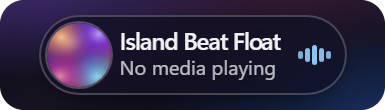
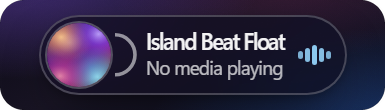
preview: 3.1.4 compact mockup with arc spin-toggle and shifted text
- preview.html: add the 3.1.4 arc spin-toggle (20 DIP diameter ring, 1.8 DIP
  stroke at 0.55 opacity, right half clipped at the vertical diameter) in the
  x 38..50 DIP column; move the text block from 42.5 to 55.5 DIP and shrink it
  to 68 DIP (text condensed to keep the full idle placeholder visible); keep
  the cover, equalizer and pill untouched.
- screenshots/compact.png (385x110), screenshots/hero.png (1600x875) and
  preview/compare/compact.png re-rendered; the compare now labels the render
  as the 3.1.4 layout so the arc column and text shift read as intended
  differences against the real 3.1.3 capture.
- build.py / compare.py accept optional view names so one artboard can be
  re-rendered on its own; preview/README.md documents the 3.1.4 geometry,
  arc draw values and measured gaps.
- expanded.png and compare/expanded.png are untouched.

Changed region(s): [[0.2805, 0.2727, 0.7481, 0.7364]]

diff --git a/preview/preview.html b/preview/preview.html
@@ -10,11 +10,14 @@
   is 2x the real UI and the PNGs can be compared 1:1 with the real 2x captures
   in preview/reference/.
 
-  Geometry source: island-beat-float.wh.cpp 3.1.3 (UpdateRuntimeLayout,
-  CalculatePopupFinalLayout, UpdatePopupXamlVisuals) plus the deployed 3.1.3
+  Geometry source: island-beat-float.wh.cpp 3.1.4 (UpdateRuntimeLayout,
+  CalculatePopupFinalLayout, UpdatePopupXamlVisuals) plus the deployed 3.1.4
   compact screen-space numbers: cover 4..36 DIP (32 DIP circle centred on the
-  left end-cap centre 20,20, 1 DIP rim), text block 42.5..123.5 DIP (width 81),
-  equalizer bars right-aligned to 147 DIP, pill 154 x 40 DIP.
+  left end-cap centre 20,20, 1 DIP rim), NEW 3.1.4 arc spin-toggle column
+  38..50 DIP (2 DIP after the cover, 12 DIP wide, 180 degree semicircular ring
+  1.8 DIP stroke, vertically centred), text block 55.5..123.5 DIP (width 68,
+  was 42.5..123.5 in 3.1.3), equalizer bars right-aligned to 147 DIP, pill 154
+  x 40 DIP.
 
   Views (query string):
     ?view=compact   192.5 x 55 CSS  -> 385 x 110 px PNG  (pill 308 x 80 px)
@@ -116,10 +119,12 @@
   }
 
   /* -------------------------------------------------- compact island pill */
-  /* 3.1.3 deployed screen-space metrics (DIP):
+  /* 3.1.4 deployed screen-space metrics (DIP):
        pill 154 x 40, radius 20, 1 DIP light rim, flat translucent dark fill
        cover circle 32, box left 4 / top 4, centre (20,20), 1 DIP rim
-       title/artist block x 42.5, width 81; title line box 14.5, artist 12
+       arc spin-toggle column x 38..50 (2 DIP after the cover), 180 degree
+       semicircular ring 1.8 DIP stroke at 0.55 opacity, vertically centred
+       title/artist block x 55.5, width 68; title line box 14.5, artist 12
        equalizer bars 5 x 2.4 wide / 0.75 gaps, right-aligned to x 147    */
   .pill {
     position: absolute;
@@ -148,27 +153,60 @@
   }
   .cover svg { display: block; width: 100%; height: 100%; }
 
+  /* 3.1.4 arc spin-toggle: a thin right-half ring, i.e. a 20 DIP diameter
+     circle (r = 10) whose left half is clipped away at the vertical diameter.
+     The real UI builds it from a stroked Ellipse plus a RectangleGeometry clip
+     x 0..12, y -0.9..20.9; here the SVG does the same: the path is the
+     180 degree right half (M ... A ...), the box x 0 = vertical diameter does
+     the clipping (the SVG viewport clips the round end caps' left halves), and
+     the 1.8 DIP round-capped stroke gives the ring its rounded ends.
+     Layout: 12 x 20 DIP column at x 38, y 10 (vertically centred on the pill);
+     the caps make the visible ink 10.9 x 21.8 DIP (y 9.1..30.9). */
+  .arc {
+    position: absolute;
+    left: 38px;
+    top: 9.1px;
+    width: 12px;
+    height: 21.8px;
+    overflow: hidden;          /* clips the caps at the vertical diameter */
+  }
+  .arc svg { display: block; width: 100%; height: 100%; }
+  .arc path {
+    fill: none;
+    stroke: currentColor;      /* themed light foreground, like the real popup */
+    stroke-width: 1.8px;
+    stroke-linecap: round;
+    opacity: 0.55;
+  }
+
   .meta {
     position: absolute;
-    left: 40.5px;            /* ink left 41.5 DIP, measured from real 3.1.3 */
+    left: 53.5px;            /* 3.1.4 text block 55.5 DIP: 42.5 + 13 */
     top: 5.5px;              /* ink block centre 20.25 DIP like the real capture */
-    width: 81px;
+    width: 68px;             /* 3.1.4: widened cover->arc->text column, right edge kept */
     display: flex;
     flex-direction: column;
     justify-content: flex-start;
+    /* The 3.1.4 text block is 13 DIP narrower than 3.1.3. Condense the two
+       placeholder lines a little (and tighten their tracking below) so the
+       full idle title/artist stay visible; the real UI ellipsizes at this
+       width, but the showcase has always shown the complete placeholder. */
+    transform: scaleX(0.93);
+    transform-origin: left center;
   }
   .pill .title {
     font-family: var(--font-ui);
     font-weight: 600;
     font-size: 12px;
     line-height: 14.5px;
-    letter-spacing: -0.045em;   /* keeps the full idle title inside 81 DIP */
+    letter-spacing: -0.075em;   /* keeps the full idle title inside 68 DIP */
     color: rgba(255, 255, 255, 0.95);
     white-space: nowrap;
   }
   .pill .artist {
     font-size: 10px;
     line-height: 12px;
+    letter-spacing: -0.03em;    /* keeps "No media playing" inside 68 DIP */
     color: rgba(255, 255, 255, 0.72);
     white-space: nowrap;
   }
@@ -373,6 +411,9 @@
     <div class="grain" aria-hidden="true"></div>
     <div class="pill">
       <div class="cover" data-art aria-hidden="true"></div>
+      <svg class="arc" viewBox="0 0 12 21.8" aria-label="Spin toggle" role="img">
+        <path d="M 0 0.9 A 10 10 0 0 1 0 20.9"/>
+      </svg>
       <div class="meta">
         <span class="title">Island Beat Float</span>
         <span class="artist">No media playing</span>
@@ -427,6 +468,9 @@
     </div>
     <div class="pill">
       <div class="cover" data-art aria-hidden="true"></div>
+      <svg class="arc" viewBox="0 0 12 21.8" aria-label="Spin toggle" role="img">
+        <path d="M 0 0.9 A 10 10 0 0 1 0 20.9"/>
+      </svg>
       <div class="meta">
         <span class="title">Island Beat Float</span>
         <span class="artist">No media playing</span>

diff --git a/preview/compare.py b/preview/compare.py
@@ -6,25 +6,32 @@ Both sides are at the same pixel scale (2x the real UI): a 308 x 80 px compact
 pill and a 648 x 1156 px expanded glass surface. The comparison images
 therefore need no rescaling, so layout differences are directly readable.
 
+The rendered compact mockup now shows the 3.1.4 layout (new arc spin-toggle
+next to the cover, text block shifted from 42.5 to 55.5 DIP). The real 3.1.3
+capture predates both changes, so the arc column and the text shift are the
+expected, intentional differences in the compact comparison; everything else
+(cover, equalizer, pill bounds, text style) should still line up.
+
 Inputs:
     preview/reference/real-compact-3.1.3.png     (335 x 110 real capture, 3.1.3)
     preview/reference/real-expanded-3.1.1.png    (1100 x 1000 real capture)
     screenshots/compact.png, screenshots/expanded.png
 
 Outputs:
-    preview/compare/compact.png    real | render | 50% overlay, 1:1 pixels
+    preview/compare/compact.png    3.1.3 real | 3.1.4 render | 50% overlay
     preview/compare/expanded.png   real | render | bottom-aligned overlay
 
 The compact overlay is aligned on the pill's top-left corner; the expanded
 overlay is aligned on the card's bottom edge (the real capture is cropped at
 the top, so the bottom is the only common anchor).
 
-Usage: python preview/compare.py
+Usage: python preview/compare.py [compact|expanded ...]
 """
 
 from __future__ import annotations
 
 import os
+import sys
 
 from PIL import Image, ImageDraw, ImageFont
 
@@ -38,7 +45,7 @@ BG = (12, 14, 20)
 FG = (235, 235, 240)
 DIM = (150, 155, 170)
 PAD = 16
-LABEL_H = 26
+LABEL_H = 44
 GAP = 20
 
 FONT_REG = r"C:\Windows\Fonts\segoeui.ttf"
@@ -70,6 +77,10 @@ def add_label(draw: ImageDraw.ImageDraw, x: int, y: int, text: str) -> None:
     draw.text((x, y), text, fill=FG, font=font(FONT_BOLD, 14))
 
 
+def add_note(draw: ImageDraw.ImageDraw, x: int, y: int, text: str) -> None:
+    draw.text((x, y), text, fill=DIM, font=font(FONT_REG, 11))
+
+
 def build_compact() -> None:
     real = Image.open(os.path.join(REF, "real-compact-3.1.3.png")).convert("RGB")
     ours = Image.open(os.path.join(SHOTS, "compact.png")).convert("RGB")
@@ -91,12 +102,26 @@ def build_compact() -> None:
     draw = ImageDraw.Draw(canvas)
 
     x = PAD
-    for img, text in (
-        (real, "real 3.1.3 capture (335 x 110 px)"),
-        (ours, "rendered mockup (385 x 110 px)"),
-        (overlay, "overlay, aligned on pill top-left"),
-    ):
+    panels = (
+        (
+            real,
+            "real 3.1.3 capture (335 x 110 px)",
+            "no arc, text block x 42.5 DIP",
+        ),
+        (
+            ours,
+            "rendered 3.1.4 mockup (385 x 110 px)",
+            "NEW 3.1.4 arc toggle, text block x 55.5 DIP",
+        ),
+        (
+            overlay,
+            "overlay, aligned on pill top-left",
+            "arc column + text shift are the intended differences",
+        ),
+    )
+    for img, text, note in panels:
         add_label(draw, x, PAD, text)
+        add_note(draw, x, PAD + 20, note)
         add_panel(canvas, x, PAD + LABEL_H, img)
         x += img.width + GAP
 
@@ -155,8 +180,15 @@ def build_expanded() -> None:
 
 def main() -> None:
     os.makedirs(OUT, exist_ok=True)
-    build_compact()
-    build_expanded()
+    wanted = set(sys.argv[1:])
+    known = {"compact", "expanded"}
+    unknown = wanted - known
+    if unknown:
+        sys.exit(f"unknown comparison(s): {', '.join(sorted(unknown))} (known: {', '.join(sorted(known))})")
+    if not wanted or "compact" in wanted:
+        build_compact()
+    if not wanted or "expanded" in wanted:
+        build_expanded()
 
 
 if __name__ == "__main__":

diff --git a/preview/build.py b/preview/build.py
@@ -10,7 +10,8 @@ are therefore 2x the real UI and line up 1:1 with the 2x captures in
 ``preview/reference/`` (see ``preview/compare.py``).
 
 Usage (from anywhere):
-    python preview/build.py
+    python preview/build.py                 # re-render every artboard
+    python preview/build.py compact hero    # re-render only the named artboards
 
 Requires Microsoft Edge and Pillow; everything else is in the repo.
 """
@@ -108,8 +109,15 @@ def main() -> None:
     os.makedirs(SHOTS, exist_ok=True)
     profile = os.path.join(tempfile.gettempdir(), "island-beat-float-preview-profile")
     work = tempfile.mkdtemp(prefix="island-beat-float-preview-")
+    wanted = set(sys.argv[1:])
+    known = {name for name, *_ in VIEWS}
+    unknown = wanted - known
+    if unknown:
+        sys.exit(f"unknown view(s): {', '.join(sorted(unknown))} (known: {', '.join(sorted(known))})")
     try:
         for name, css_w, css_h, radius, out_w in VIEWS:
+            if wanted and name not in wanted:
+                continue
             dump = os.path.join(work, name + "-raw.png")
             win_w = int(math.ceil(css_w)) + 2 * MARGIN
             win_h = int(math.ceil(css_h)) + 2 * MARGIN

diff --git a/preview/README.md b/preview/README.md
@@ -12,6 +12,11 @@ differences are the clean gradient backdrop instead of the desktop/wallpaper,
 the generated abstract artwork instead of a real cover, and the placeholder
 idle text instead of a real track.
 
+The compact artboard models the **3.1.4** layout: the new arc spin-toggle next
+to the cover and the text block shifted 13 DIP to the right. The newest real
+capture is still 3.1.3, so those two changes are the intended differences in
+`compare/compact.png`; the expanded artboard is unchanged.
+
 | Artboard | Query | Output |
 | --- | --- | --- |
 | Compact taskbar island | `preview.html?view=compact` | `../screenshots/compact.png` (385x110) |
@@ -21,9 +26,9 @@ idle text instead of a real track.
 Open `preview/preview.html` in a browser to see every artboard stacked (no
 query string = browsing mode).
 
-## Compact island (3.1.3)
+## Compact island (3.1.4)
 
-Deployed 3.1.3 screen-space values (pill 154 x 40 DIP), used verbatim
+Deployed 3.1.4 screen-space values (pill 154 x 40 DIP), used verbatim
 (`Main.Height = 40`, `Main.CompactWidth = 154`):
 
 | Element | DIP | 2x px in the image |
@@ -31,28 +36,65 @@ Deployed 3.1.3 screen-space values (pill 154 x 40 DIP), used verbatim
 | Pill | 154 x 40, radius 20, 1 DIP light rim, flat translucent dark fill | 308 x 80 |
 | Cover circle | x 4..36, y 4..36 (32 DIP, centre 20,20 = left cap centre) | 64 |
 | Cover rim | 1 DIP light ring outside the circle | 2 |
-| Title/artist block | x 40.5, width 81 (ink starts 41.5, like the capture) | 81..243 |
+| Arc spin-toggle | layout box x 38, y 10, 12 x 20 (2 DIP after the cover, vertically centred) | x 76, y 20 |
+| Text block | x 55.5..123.5, width 68 (was 42.5..123.5, width 81 in 3.1.3) | 111..247 |
 | Title | 12 DIP SemiBold, line box 14.5 | ink y 8..16.5 |
 | Artist | 10 DIP Regular, line box 12 | ink y 22.5..31.5 |
 | Equalizer | 5 bars 2.5 wide / 1.0 gaps (16.5 DIP) centred in the 18 DIP indicator at right inset 7 (bars 129.75..146.25) | 259.5..292.5 |
 | Pill end cap | right edge 154, bar inset 7 | 14 |
 
-Measured from the rendered PNG (pill top-left at 38.5/15 px):
+### Arc spin-toggle (new in 3.1.4)
 
-- cover artwork right edge 36.0 DIP -> title ink 42.0 DIP = **6.0 DIP gap**
-  (12 px); measured from the 1 DIP cover ring (37.0) it is 5.0 DIP (10 px)
-- title ink right edge 121.0 DIP -> bars left 130.0 DIP = **9.0 DIP gap**
-  (18 px); block-edge gap (121.5 -> 129.75) is 8.25 DIP
-- bars right edge 146.25 DIP -> pill right 154 DIP = **7.75 DIP gap** (15.5 px)
+The toggle is a thin **right-half ring**: a 20 DIP diameter circle (r = 10,
+like the real `Ellipse`) with its left half clipped away at the vertical
+diameter, i.e. a semicircular ")" bracket. The real UI draws a stroked ellipse
+and clips it with `RectangleGeometry(0, -0.9, 12, 21.8)`; the mockup does the
+same in SVG: the arc path covers only the 180 degree right half and the SVG
+viewport (`overflow: hidden`, box x 0 = vertical diameter) clips the round
+end caps' left halves.
 
-The equalizer bar count/width/pitch and the text block are matched to the real
-3.1.3 capture: every comparable anchor is within 1 px at 2x (see the fidelity
-table below).
+| Draw value | Value |
+| --- | --- |
+| Layout box (CSS/DIP) | `left: 38`, `top: 9.1`, `width: 12`, `height: 21.8` (the arc column is x 38..50, y 10..30) |
+| SVG | `viewBox="0 0 12 21.8"`, default clipping |
+| Path | `M 0 0.9 A 10 10 0 0 1 0 20.9` (start top, end bottom at the vertical diameter, r = 10, sweep 1 = bulge right) |
+| Stroke | 1.8 DIP, round caps, `fill: none`, round end discs = the real cap ellipses |
+| Colour | themed light foreground (`currentColor` = #FFFFFF) at `opacity: 0.55` |
+| Visible ink | 10.9 x 21.8 DIP at x 38.0..48.9, y 9.1..30.9 (centre 43.45, 20.0) |
+
+The 12 x 20 DIP layout slot is centred on the pill's centre line (y 10..30).
+The stroke/caps extend 0.9 DIP above and below that slot, so the element is
+21.8 DIP tall; the right side of the 12 DIP column keeps 1.1 DIP of space
+between the ring's outer edge (10.9) and the column edge (12).
+
+### Text block shift (3.1.4)
+
+The block moves right by 13 DIP: the new column is
+`4 (artInset) + 32 (cover) + 2 (gap) + 12 (arc) + 5.5 (textMarginX) = 55.5`
+DIP, so the text block is x 55.5..123.5 and the right side is untouched.
+
+Measured from the rendered PNG (pill top-left at 38.5/15 px, all gaps in DIP):
+
+- cover artwork right edge 36.0 -> arc ink left 38.0 = **2.0 DIP gap** (nominal
+  cover 36 -> arc column 38 = 2.0)
+- arc ink right edge 48.9 -> title ink left 54.25 = **5.35 DIP gap** (nominal
+  arc column 50 -> text block 55.5 = 5.5; the text ink starts ~1 DIP before the
+  block edge)
+- title ink right edge 123.75 (artist 121.75) -> bars left 129.75 = **6.0 DIP
+  gap** (close to the 3.1.4 block-edge gap of 123.5 -> 129.75 = 6.25)
+- bars right edge 146.25 -> pill right 154 = **7.75 DIP gap** (unchanged from
+  3.1.3)
+
+The equalizer bar count/width/pitch and the right side are untouched: every
+comparable anchor is within 1 px at 2x (see the fidelity table below).
 
 Two deliberate deviations from the real text rendering:
 
-- the idle title "Island Beat Float" is 12 DIP with -0.045em tracking so the
-  full title fits the real 81 DIP text block (the real UI would ellipsize it);
+- the 3.1.4 text block is 13 DIP narrower, so the two placeholder lines are
+  condensed slightly (`transform: scaleX(0.93)` on the block plus -0.075em /
+  -0.03em tracking) to keep the *complete* idle text visible - the real UI
+  ellipsizes both lines at this width; the showcase has always shown the full
+  placeholder instead;
 - the two-line block is placed so the *ink* is centred like the capture
   (title ink top 8.5 DIP, artist ink bottom 32 DIP, ink-block centre 20.25 DIP,
   the same as the real 3.1.3 capture).
@@ -83,7 +125,9 @@ so the comparison aligns the card bottoms.
 Requires Windows, Microsoft Edge (headless) and Python 3 with Pillow:
 
 ```powershell
-python preview/build.py
+python preview/build.py                 # all three artboards
+python preview/build.py compact hero    # only the named artboards
+python preview/compare.py compact       # only the named comparison
 ```
 
 Single-view artboards are anchored at a fixed `(40, 40)` CSS offset and the
@@ -107,20 +151,24 @@ python preview/compare.py
 
 writes 1:1 comparisons into `preview/compare/`:
 
-- `compact.png` - real capture | rendered mockup | 50 % overlay, all at the
-  same 2x pixel scale, overlay aligned on the pill top-left corner;
+- `compact.png` - real 3.1.3 capture | rendered 3.1.4 mockup | 50 % overlay,
+  all at the same 2x pixel scale, overlay aligned on the pill top-left corner;
+  the two panes are labelled with the expected 3.1.4 differences (new arc
+  toggle and the +13 DIP text shift), since the newest real capture is 3.1.3;
 - `expanded.png` - real card | rendered card | overlay aligned on the card
   bottom edge (the only common anchor, since the real capture is top-cropped).
 
 Measured per-element deltas between `real-compact-3.1.3.png` and
 `screenshots/compact.png` (pill top-left normalised, 2x pixels):
 
-| Element | real 3.1.3 | render | delta |
+| Element | real 3.1.3 | render 3.1.4 | delta |
 | --- | --- | --- | --- |
 | pill bounds | 308 x 80 px, top 0 bottom 80 | same | 0 px |
 | cover circle | x 4.0..36.0 DIP, y 4.0..36.0 | x 4.0..36.0, y 4.0..36.0 | 0 px |
-| title ink left / top | 41.5 / 8.0 DIP | 42.0 / 8.5 DIP | +1 / +1 px |
-| artist ink left / top / bottom | 42.0 / 23.0 / 32.5 DIP | 41.5 / 22.5 / 32.0 DIP | -1 / -1 / -1 px |
+| arc spin-toggle | absent (3.1.3) | x 38.0..48.9, y 9.1..30.9 | intended |
+| text ink left | 41.5 DIP | 54.25 DIP | intended +12.75 DIP |
+| title ink top | 8.0 DIP | 8.5 DIP | +1 px |
+| artist ink top / bottom | 23.0 / 32.5 DIP | 22.5 / 32.0 DIP | -1 / -1 px |
 | equalizer bars left / right / top | 130.0 / 146.0 / 15.5 DIP | 130.0 / 146.0 / 15.0 DIP | 0 / 0 / -1 px |
 
 The title/artist *right* edges and the title-ink bottom are not comparable:
